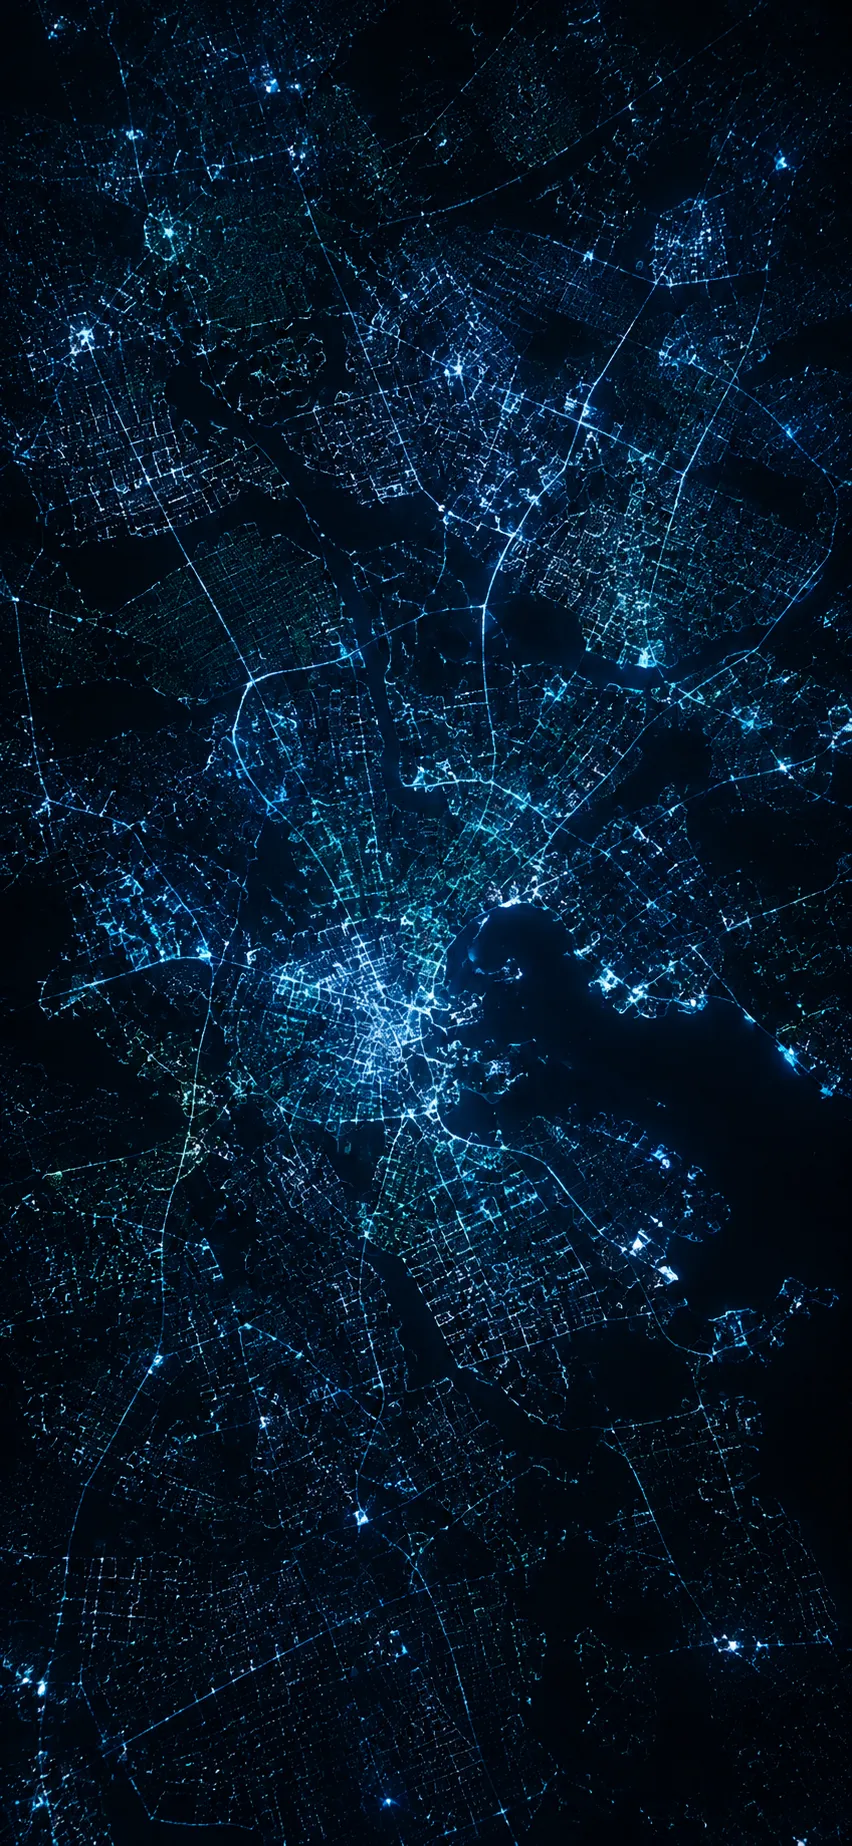
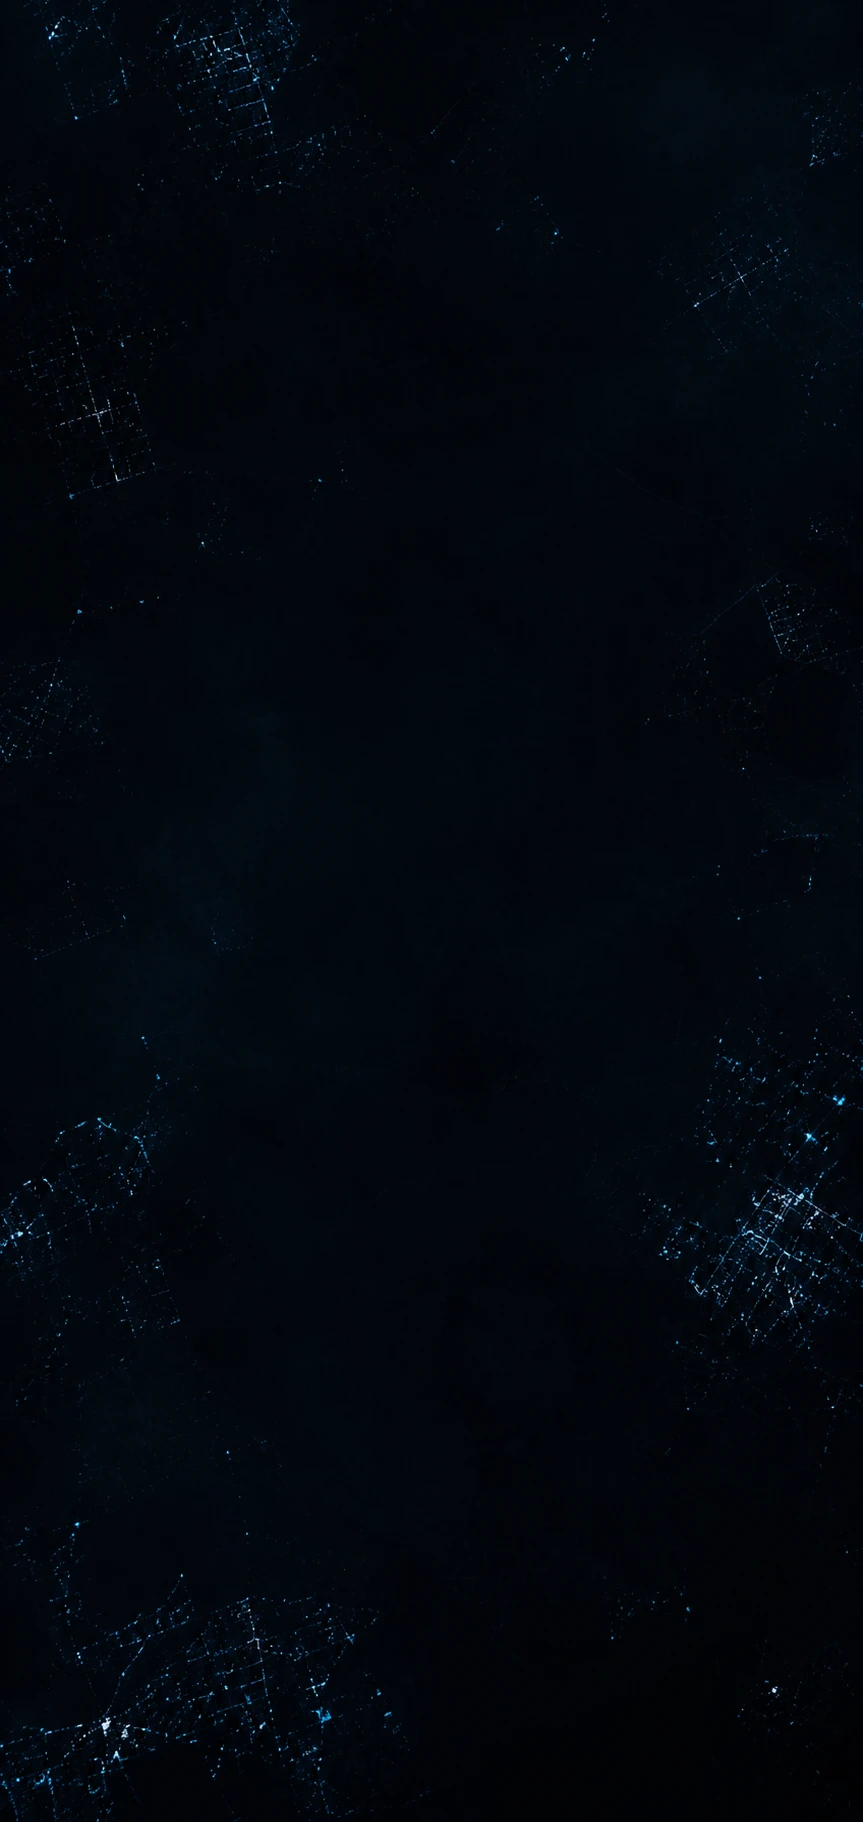
Swap Messages list background to darker city-lights image
Replace the Messages list background with the darker variant (near-black
center, corner city-light clusters) and lighten the gradient scrim so
the darker image reads through clearly while keeping text readable.

Claude-Session: https://claude.ai/code/session_01YDyHq7FtxKUrHcnSkcvkMA

diff --git a/src/pages/Messages.jsx b/src/pages/Messages.jsx
@@ -113,7 +113,7 @@ export default function Messages() {
     <div
       className="px-4 pt-6 safe-top h-full flex flex-col overflow-hidden"
       style={{
-        backgroundImage: `linear-gradient(180deg, rgba(1,6,14,0.62) 0%, rgba(1,6,14,0.5) 42%, rgba(1,6,14,0.82) 100%), url(${messagesBg})`,
+        backgroundImage: `linear-gradient(180deg, rgba(1,6,14,0.35) 0%, rgba(1,6,14,0.25) 45%, rgba(1,6,14,0.6) 100%), url(${messagesBg})`,
         backgroundSize: "cover",
         backgroundPosition: "center top",
         backgroundRepeat: "no-repeat",
